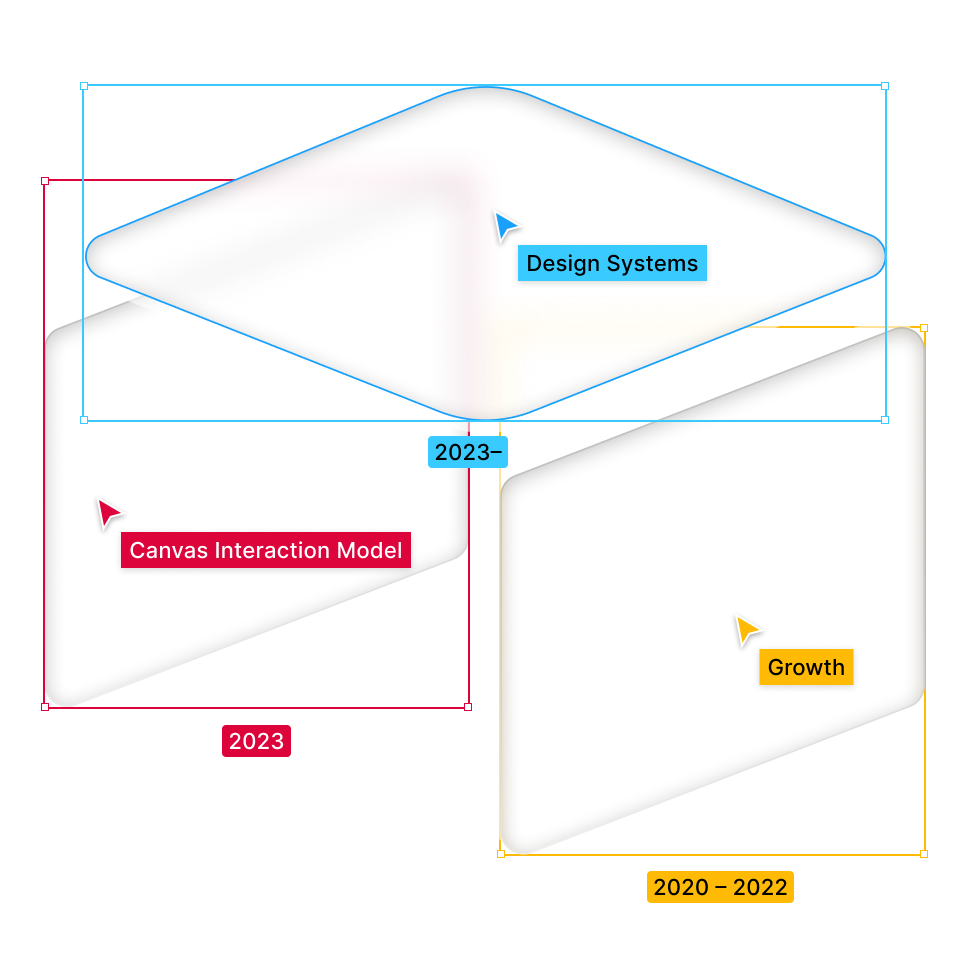
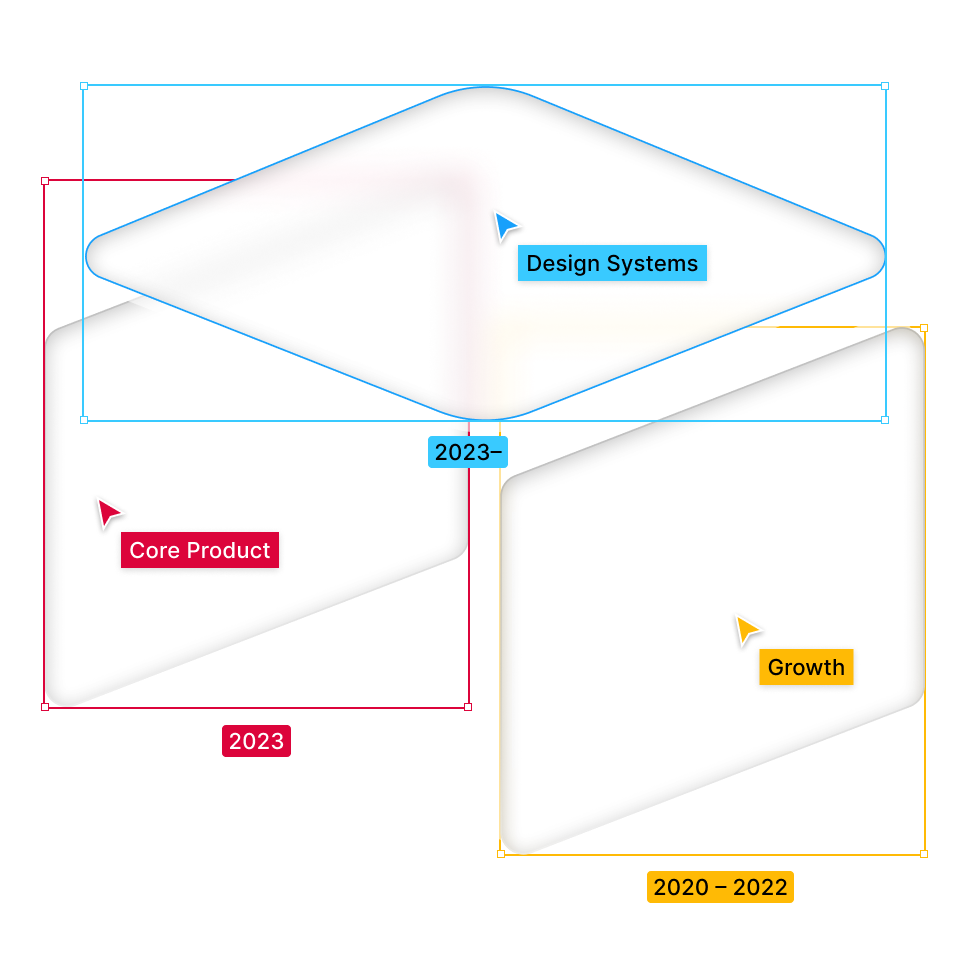
Add Airtable stuff, blurred.

Changed region(s): [[0.1562, 0.5312, 0.4375, 0.5938]]

diff --git a/src/pages/airtable/index.js b/src/pages/airtable/index.js
@@ -2,10 +2,22 @@ import React from "react"
 import SEO from '../../components/seo';
 import Hero from "./images/hero.png";
 
-import Glam1 from "./images/hero.png";
-import Glam2 from "./images/hero.png";
-import Glam3 from "./images/hero.png";
-import Glam4 from "./images/hero.png";
+import Glam1 from "./images/Glam1.png";
+import Glam2 from "./images/Glam2.png";
+import Glam3 from "./images/Glam3.png";
+import Glam4 from "./images/Glam4.png";
+
+
+import Fig1 from "./images/Fig1.gif";
+import Fig2 from "./images/Fig2.png";
+import Fig3 from "./images/Fig3.png";
+import Fig4 from "./images/Fig4.gif";
+import Fig5 from "./images/Fig5.png";
+import Fig6 from "./images/Fig6.gif";
+import Fig7 from "./images/Fig7.gif";
+import Fig8 from "./images/Fig8.png";
+import Fig9 from "./images/Fig9.png";
+
 
 import "../../css/global.css"
 import Header from "../../components/header/header"
@@ -16,6 +28,7 @@ import Tracker from "../../components/tracker/tracker"
 import List from "../../components/list/list"
 import Paragraph from "../../components/paragraph/paragraph"
 import Phase from "../../components/phase/phase"
+import ImgFull from "../../components/imgFull/imgFull"
 import ImgRight from "../../components/imgRight/imgRight"
 import ImgLeft from "../../components/imgLeft/imgLeft"
 import HowMightWe from "../../components/howMightWe/howMightWe"
@@ -44,37 +57,85 @@ class Index extends React.Component {
 
         <Abstract glams={
           [
-            [Hero]
+            [Glam1],
+            [Glam2],
+            [Glam4]
           ]
         }
           abstractTeam="Growth · Design Systems · Mobile"
           abstractRole="Product Designer"
           abstractTools="Auditing, Prototyping, A/B Testing"
           abstractTime="2020 – Now"
-          abstractBody="This pose-recognition-based game introduces the user to flag semaphore in a fun and competitive way. The player is prompted with a letter and a corresponding pose that they must recreate. As the player completes more rounds, they develop muscle memory and think more quickly about each pose, improving their fluency in flag semaphore. Who knows when they will need it?" />
+          abstractBody="Few parts of Airtable have gone untouched by my cursor. From every top-of-funnel surface you can think of, to the depths of app configurations, I've designed for it all. Currently, I am the only designer on the design systems and mobile teams."
+        />
 
         <Tracker phaseList={['GROWTH', 'CORE PRODUCT', 'DESIGN SYSTEMS', 'MOBILE', 'CULTURE']}
           trackerHead={Constants.trunks.heroTitle} />
         <div id="p1">
           <Phase phaseTitle="Growth" />
-          <ImgLeft img={Hero} padding="" imgNum="01" imgCaption="My Onboarding Wizard drove so much Activation <3" />
+          <ImgLeft img={Fig1} padding="" blur="yes" imgNum="01" imgCaption="Favorite project from this era — the onboarding wizard." />
           <Paragraph paragraphTitle="Onboarding, Education and Experimental Delight"
-            paragraphBody="Responsible for overhauling the entirety of our top of funnel design, from redesigning and re-routing our sign-up flow to conceiving brand new onboarding experiences." />
-          <List listTitle="❓ Questions you may want to ask me:" listType='ol'
-            listItems={["Are templates best suited as an accelerative or demonstrative activation lever?",
+            paragraphBody="Responsible for overhauling the entirety of our top of funnel design, from refreshing and re-routing our sign-up flow to conceiving brand new onboarding experiences. My onboarding experiments are [[discussed in this lengthy interview from Dopt>https://blog.dopt.com/airtable-onboarding-deep-dive]]. Try searching for my name!" />
+          <List listTitle="Questions you may want to ask me:" listType='ol'
+            listItems={[
+              "Why am I always compelled to skip every product tour?",
+              "Are templates best suited as an accelerative or demonstrative activation lever?",
               "What was the most surprising activation lever? How did you discover it, and how did you leverage it?",
-              "Descibe the perfect in-product Help surface.",
+              "What's the most delightful flavor of Help documentation?",
+              "Why does making the button bigger not work?",
+              "Why are logged out users as important as logged in users?",
               "What makes a good wizard? 🪄"
             ]} />
         </div>
         <div id="p2">
           <Phase phaseTitle="Core Product" />
-          <ImgLeft img={Hero} padding="" imgNum="01" imgCaption="Onboarding Wizard" />
+          <ImgLeft img={Fig2} padding="" imgNum="02" imgCaption="Favorite project from this era — redesigning all control panels in Airtable." />
+          <Paragraph paragraphTitle="App Building Experience"
+            paragraphBody="Temporarily embedded on a core product team, I represented the Design Systems crew to help develop a best-in-class canvas interaction model and a corresponding component library for configuration panels. Launching in October 2023, it's [[featured on Airtable's blog>https://blog.airtable.com/new-app-building-features/]]." />
           <List listTitle="Questions you may want to ask me:" listType='ol'
-            listItems={["Do templates really work?",
-              "How ",
-              "Sample question"
+            listItems={["How to decide when to expose controls on the canvas and when to use a dedicated control panel?",
+              "How to ensure the user can distinguish what element is being targeted by the cursor?",
+              "When selecting elements on the canvas, when is it important to show parent elements? What about sibling elements?",
+              "What does it mean to be scannable?"
             ]} />
+        </div>
+        <div id="p3">
+          <Phase phaseTitle="Design Systems" />
+          <ImgLeft img={Fig3} padding="" imgNum="03" imgCaption="Aero's Announcement Page" />
+          <Paragraph paragraphTitle="Aero Design System"
+            paragraphBody="Since January 2023, my team has worked together to launch the first version of our Aero Design System. As the sole design systems IC, I am responsible for facilitating contributions from other designers, as well as hosting weekly office hours to help designers leverage the system to its fullest." />
+          <List listTitle="Questions you may want to ask me:" listType='ol'
+            listItems={["If a design system is a product, then who is the target audience? What is the go-to-market strategy? How far does this analogy extend?",
+              "Why is process optimization more important than component optimization?",
+              "Why are usage guidelines more important than a sticker sheet?",
+              "How to balance custom user color theming with dark, light and high-contrast mode?",
+              "What is the most versatile component of them all?"
+            ]} />
+        </div>
+        <div id="p4">
+          <Phase phaseTitle="Mobile" />
+          <ImgLeft img={Fig4} padding="true" blur="true" imgNum="04" imgCaption="Project description witheld due to NDA" />
+          <Paragraph paragraphTitle="Making Airtable Mobile-Native"
+            paragraphBody="Since September 2023, I've been the sole designer supporting our mobile app experience on iOS and Android. Given the spatial constraint when designing for mobile, I employ time-based disclosure paradigms to adapt web features to smaller screens." />
+          <List listTitle="Questions you may want to ask me:" listType='ol'
+            listItems={["How might we leverage the simplicity of mobile patterns to make web experiences more delightful and well-timed?",
+              "Why is time more important than space in mobile design? In what ways can this manifest?",
+              "What are some differences to keep in mind when designing for Android over iOS?"
+            ]} />
+        </div>
+        <div id="p5">
+          <Phase phaseTitle="Culture" />
+          <ImgLeft img={Fig5} padding="" imgNum="05" imgCaption="Hack Day Enamel Pin" />
+          <Paragraph paragraphTitle="Bootleg Swag"
+            paragraphBody="I've been the go-to person for internal event branding on the design team. One identity I am most proud of is the one I created for our yearly Hack Day." />
+          <List listTitle="Questions you may want to ask me:" listType='ol'
+            listItems={["How did a Japanese copier from the 1980s become such a printmaking staple?",
+              "Why is PANTONE matching brand colors important?",
+              "Why did the Growth team grow Corn and Sunflowers?"
+            ]} />
+          <ImgLeft img={Fig8} padding="" imgNum="06" imgCaption="Hack Day Riso Posters" />
+          <ImgRight img={Fig9} padding="" imgNum="07" imgCaption="Hack Day Countdown" />
+          <ImgRight img={Fig7} padding="" imgNum="08" imgCaption="Hack Day Announcement Poster" />
         </div>
         <More />
         <Contact />

diff --git a/src/components/imgLeft/imgLeft.js b/src/components/imgLeft/imgLeft.js
@@ -4,40 +4,40 @@ import "../paragraph/paragraph.css";
 import "../../css/normalize.css";
 import "../../css/global.css";
 
-function buildImageList(img, imgNum, imgCaption, padding) {
+function buildImageList(img, imgNum, imgCaption, padding, blur) {
   if (!Array.isArray(img)) {
     return <div className="gridContainer">
-              <figure className="imgLeft">
-              <div className={ (padding ? "imgLeft--padding" : "")}>
-                <img src={img} alt="" className="imgLeft__img"/>
-              </div>
-              <figcaption className="imgLeft__caption">
-                  <span className="imgLeft__number">{imgNum}</span> {imgCaption}
-              </figcaption>
-            </figure>
-          </div>
+      <figure className="imgLeft">
+        <div className={(padding ? "imgLeft--padding" : "") + (blur ? " blur" : "")}>
+          <img src={img} alt="" className="imgLeft__img" />
+        </div>
+        <figcaption className="imgLeft__caption">
+          <span className="imgLeft__number">{imgNum}</span> {imgCaption}
+        </figcaption>
+      </figure>
+    </div>
   } else {
     return Array.from(Array(img.length).keys()).map((i) => {
-        return <div className="gridContainer">
-                <figure className="imgLeft">
-                  <div className={ (padding ? "imgLeft--padding" : "")}>
-                    <img src={img[i]} alt="" className="imgLeft__img"/>
-                  </div>
-                  <figcaption className="imgLeft__caption">
-                      <span className="imgLeft__number">{imgNum[i]}</span> {imgCaption[i]}
-                  </figcaption>
-                </figure>
-              </div>
+      return <div className="gridContainer">
+        <figure className="imgLeft">
+          <div className={(padding ? "imgLeft--padding" : "") + (blur ? " blur" : "")}>
+            <img src={img[i]} alt="" className="imgLeft__img" />
+          </div>
+          <figcaption className="imgLeft__caption">
+            <span className="imgLeft__number">{imgNum[i]}</span> {imgCaption[i]}
+          </figcaption>
+        </figure>
+      </div>
     })
   }
 }
 
 export default props => (
-    <>
-      <div className="imgLeft__absoluter">
-        {
-          buildImageList(props.img, props.imgNum, props.imgCaption, props.padding)
-        }
-      </div>
-    </>
+  <>
+    <div className="imgLeft__absoluter">
+      {
+        buildImageList(props.img, props.imgNum, props.imgCaption, props.padding, props.blur)
+      }
+    </div>
+  </>
 ); 

diff --git a/src/components/list/list.css b/src/components/list/list.css
@@ -48,6 +48,12 @@ ul > .list__item::before {
         margin-right: 16vw;
     }
 
+
+    .list__items {
+        font-size: 14px;
+        line-height: 24px;   
+    }
+
     .list__item:before {
         font-size: 12px;
         margin-left: -2.5em;

diff --git a/src/components/paragraph/paragraph.css b/src/components/paragraph/paragraph.css
@@ -36,10 +36,10 @@
 }
 
 .paragraph__body {
-    font-family: SuisseNeue-Regular;
+    font-family: Chapeau-Light;
     font-size: 16px;
     color: var(--black);
-    letter-spacing: 0;
+    letter-spacing: 0.3px;
     line-height: 28px;
 }
 

diff --git a/src/components/listQuotes/listQuotes.css b/src/components/listQuotes/listQuotes.css
@@ -48,6 +48,11 @@ ul > .listQuotes__item::before {
     }
 
 
+    .list__items {
+        font-size: 14px;
+        line-height: 24px;   
+    }
+
     .list__item:before {
         font-size: 12px;
         margin-left: -2.5em;

diff --git a/src/components/imgLeft/imgLeft.css b/src/components/imgLeft/imgLeft.css
@@ -67,6 +67,7 @@
         font-size: 12px;
         color: var(--black);
         line-height: 18px;
+        margin-top: 16px;
     }
 }
 
@@ -76,3 +77,5 @@
         padding-left: 24vw;
     }
 }
+
+

diff --git a/src/components/innerTxt/innerTxt.css b/src/components/innerTxt/innerTxt.css
@@ -32,7 +32,7 @@
 }
 
 .head {
-  font-family: SuisseNeue-Regular;
+  font-family: Chapeau-Light;
   font-weight: 400;
   letter-spacing: 0.2px;
   font-size: 1em;

diff --git a/src/css/global.css b/src/css/global.css
@@ -281,3 +281,7 @@
 html {
   scroll-behavior: smooth;
 }
+
+.blur {
+  filter: blur(4px);
+}
